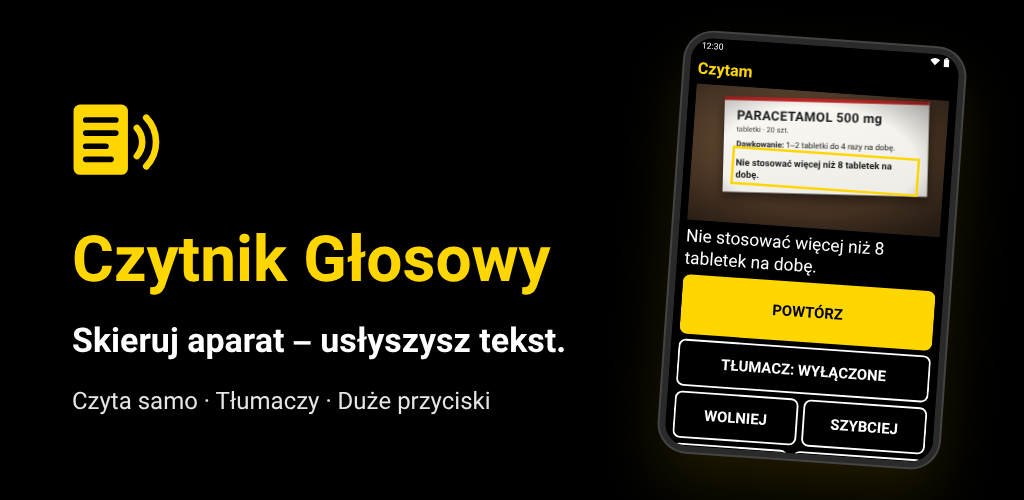
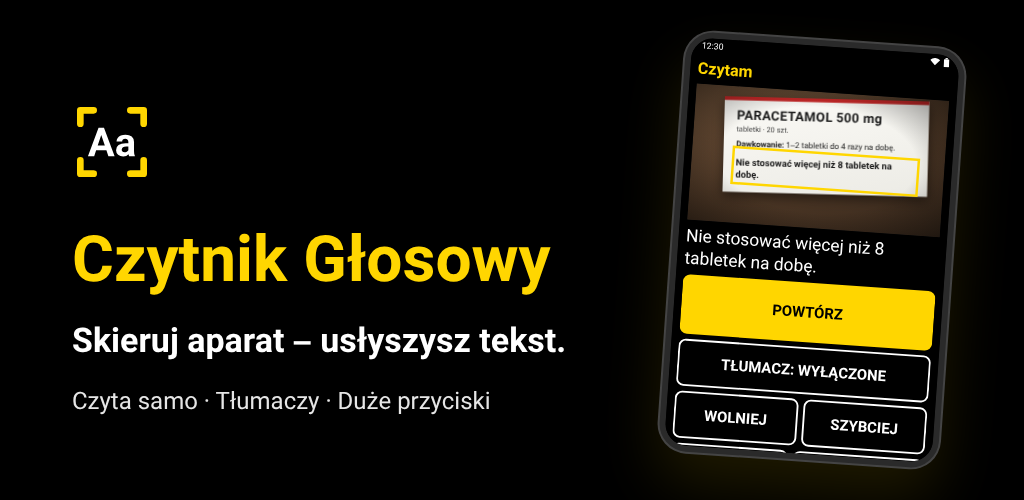
Wersja 1.0.0, ikona aplikacji i R8 w wersji release
- versionName 1.0.0; versionCode z numeru przebiegu CI lub -PversionCode; wersje
  debug z przyrostkiem -<run>-<sha>
- ikona adaptacyjna (celownik aparatu wokół „Aa”, także jako ikona motywowa);
  ta sama w grafikach Sklepu Play i favicon strony
- release z R8 (minify + shrinkResources); typ r8test podpisany kluczem debug,
  budowany w CI jako artefakt do sprawdzenia na telefonie

Claude-Session: https://claude.ai/code/session_01Vvd6XmAHtXuwX3sEQjijKA

Changed region(s): [[0.0625, 0.21, 0.1562, 0.36]]

diff --git a/store/src/screens.html b/store/src/screens.html
@@ -101,17 +101,13 @@
 </head>
 <body>
 
-<!-- Ikona aplikacji (wspólny rysunek: ikona 512, grafika promocyjna, favicon strony) -->
+<!-- Ikona aplikacji: widoczna część (72 × 72 dp) ikony adaptacyjnej z app/src/main/res/drawable/ic_launcher_foreground.xml -->
 <svg width="0" height="0" style="position:absolute">
   <defs>
-    <symbol id="logo" viewBox="0 0 512 512">
-      <rect x="92" y="96" width="232" height="300" rx="28" fill="#FFD600"/>
-      <rect x="132" y="150" width="152" height="24" rx="12" fill="#000"/>
-      <rect x="132" y="206" width="152" height="24" rx="12" fill="#000"/>
-      <rect x="132" y="262" width="110" height="24" rx="12" fill="#000"/>
-      <rect x="132" y="318" width="132" height="24" rx="12" fill="#000"/>
-      <path d="M362 196 a90 90 0 0 1 0 120" fill="none" stroke="#FFD600" stroke-width="28" stroke-linecap="round"/>
-      <path d="M402 152 a150 150 0 0 1 0 208" fill="none" stroke="#FFD600" stroke-width="28" stroke-linecap="round"/>
+    <symbol id="logo" viewBox="18 18 72 72">
+      <rect x="18" y="18" width="72" height="72" fill="#000"/>
+      <path d="M35 43V35H43M65 35H73V43M73 65V73H65M43 73H35V65" fill="none" stroke="#FFD600" stroke-width="4" stroke-linecap="round" stroke-linejoin="round"/>
+      <path d="M50.65 58.98H44.48L43.31 62.5H39.57L45.93 45.44H49.18L55.57 62.5H51.83ZM45.43 56.14H49.7L47.55 49.75ZM64.29 62.5Q64.05 62.04 63.95 61.36Q62.72 62.73 60.75 62.73Q58.89 62.73 57.66 61.66Q56.44 60.58 56.44 58.94Q56.44 56.92 57.93 55.84Q59.43 54.77 62.25 54.75H63.81V54.03Q63.81 53.15 63.36 52.62Q62.91 52.09 61.93 52.09Q61.08 52.09 60.59 52.5Q60.11 52.91 60.11 53.63H56.72Q56.72 52.53 57.4 51.59Q58.08 50.65 59.32 50.12Q60.56 49.59 62.11 49.59Q64.45 49.59 65.83 50.76Q67.21 51.94 67.21 54.07V59.57Q67.22 61.38 67.71 62.3V62.5ZM61.49 60.14Q62.24 60.14 62.87 59.81Q63.5 59.48 63.81 58.91V56.73H62.54Q60 56.73 59.84 58.49L59.82 58.69Q59.82 59.32 60.27 59.73Q60.71 60.14 61.49 60.14Z" fill="#fff"/>
     </symbol>
   </defs>
 </svg>

diff --git a/docs/TECH-SPEC.md b/docs/TECH-SPEC.md
@@ -586,8 +586,11 @@ Rozmiar: bundled OCR łaciński + Language ID to kilka MB na ABI; uniwersalne de
   3. `./gradlew :app:testDebugUnitTest :app:lintDebug :app:assembleDebug`;
   4. `actions/upload-artifact`: `app/build/outputs/apk/debug/*.apk` jako `czytnik-glosowy-debug-<krótki SHA>`,
      retencja 30 dni; raporty testów i lint jako osobny artefakt przy niepowodzeniu.
-- `versionCode = github.run_number`, `versionName = "0.<etap>.0-<krótki SHA>"` – widać w Ustawieniach, co jest
-  zainstalowane.
+- `versionCode = github.run_number` (lokalnie `-PversionCode=<n>`), `versionName = "1.0.0"` ustawiane ręcznie przy
+  wydaniu; wersje debug mają przyrostek `-<run>-<krótki SHA>` – widać w Ustawieniach, co jest zainstalowane.
+- **Release**: R8 (`isMinifyEnabled`, `isShrinkResources`, `app/proguard-rules.pro`). CI buduje też `r8test` – release
+  z R8 podpisany kluczem debug, do sprawdzenia na telefonie (artefakt `czytnik-glosowy-r8test-<krótki SHA>` z
+  `mapping.txt`).
 - **Podpis**: `app/debug.keystore` w repozytorium (klucz debug, nie jest tajny) i jawnie wskazany w `signingConfigs.debug`.
   Bez tego każdy runner generuje inny klucz i kolejne APK nie instalują się na poprzednie.
 - **Dostarczenie Damianowi (decyzja 2026-09-26)**: APK pobrane z artefaktu CI przekazujemy **linkiem** (np. Dysk

diff --git a/README.md b/README.md
@@ -13,6 +13,8 @@ Aplikacja Android, która czyta na głos tekst widoczny w aparacie – opcjonaln
 | --- | --- | --- |
 | Testy logiki (moduł `core`, czysty Kotlin/JVM) | `./gradlew -p core test` | nie |
 | Debug APK | `./gradlew :app:assembleDebug` | tak |
+| Release z R8 podpisany kluczem debug (test na telefonie) | `./gradlew :app:assembleR8test` | tak |
+| Release AAB do Google Play (wymaga własnego klucza podpisu) | `./gradlew :app:bundleRelease -PversionCode=<n>` | tak |
 
 Każdy push buduje w GitHub Actions debug APK (zakładka **Actions** → przebieg → artefakt
 `czytnik-glosowy-debug-<commit>`). APK są podpisane wspólnym kluczem debug z `app/debug.keystore`, więc nowa wersja

diff --git a/docs/INSTALACJA.md b/docs/INSTALACJA.md
@@ -15,4 +15,4 @@
 5. **Głosy** – jeśli aplikacja mówi „Brak głosu…”, w Ustawieniach aplikacji: ZAINSTALUJ GŁOSY (np. angielski i polski
    w Usługach mowy Google).
 
-Wersję zainstalowanej aplikacji widać w Ustawienia → O aplikacji (`0.0.<numer buildu>-<commit>`).
+Wersję zainstalowanej aplikacji widać w Ustawienia → O aplikacji (`1.0.0-<numer buildu>-<commit>`).
